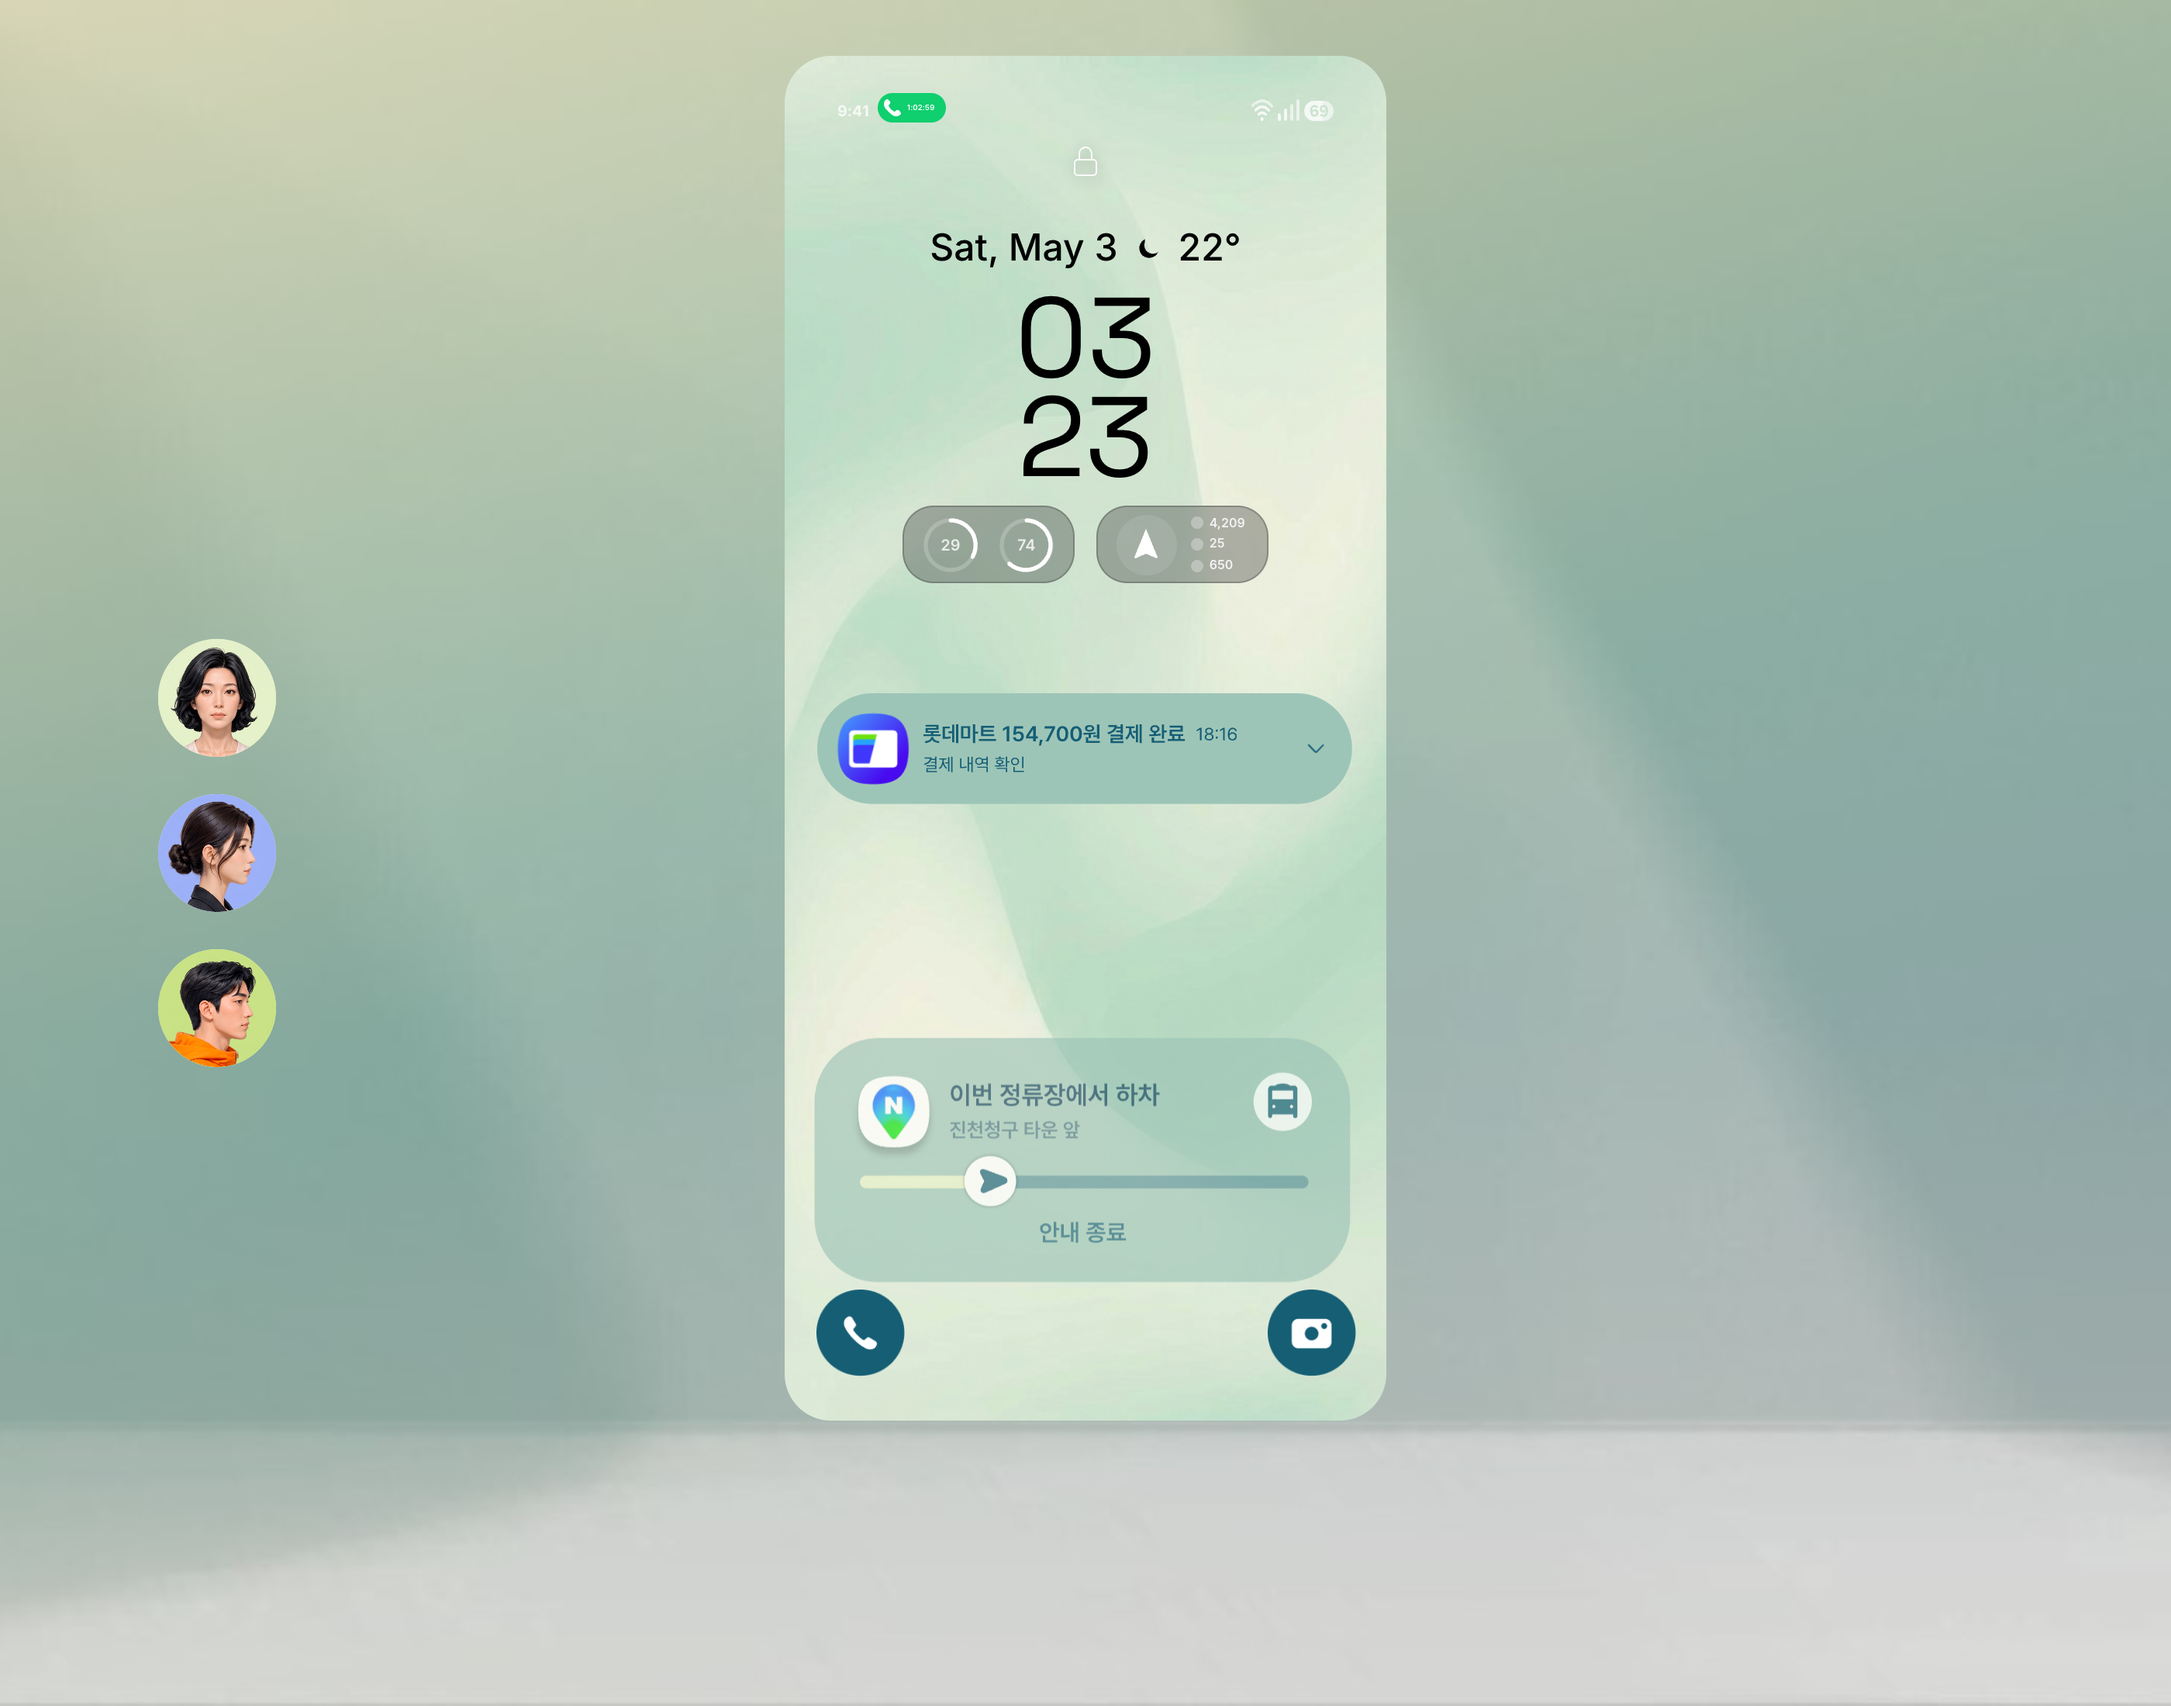
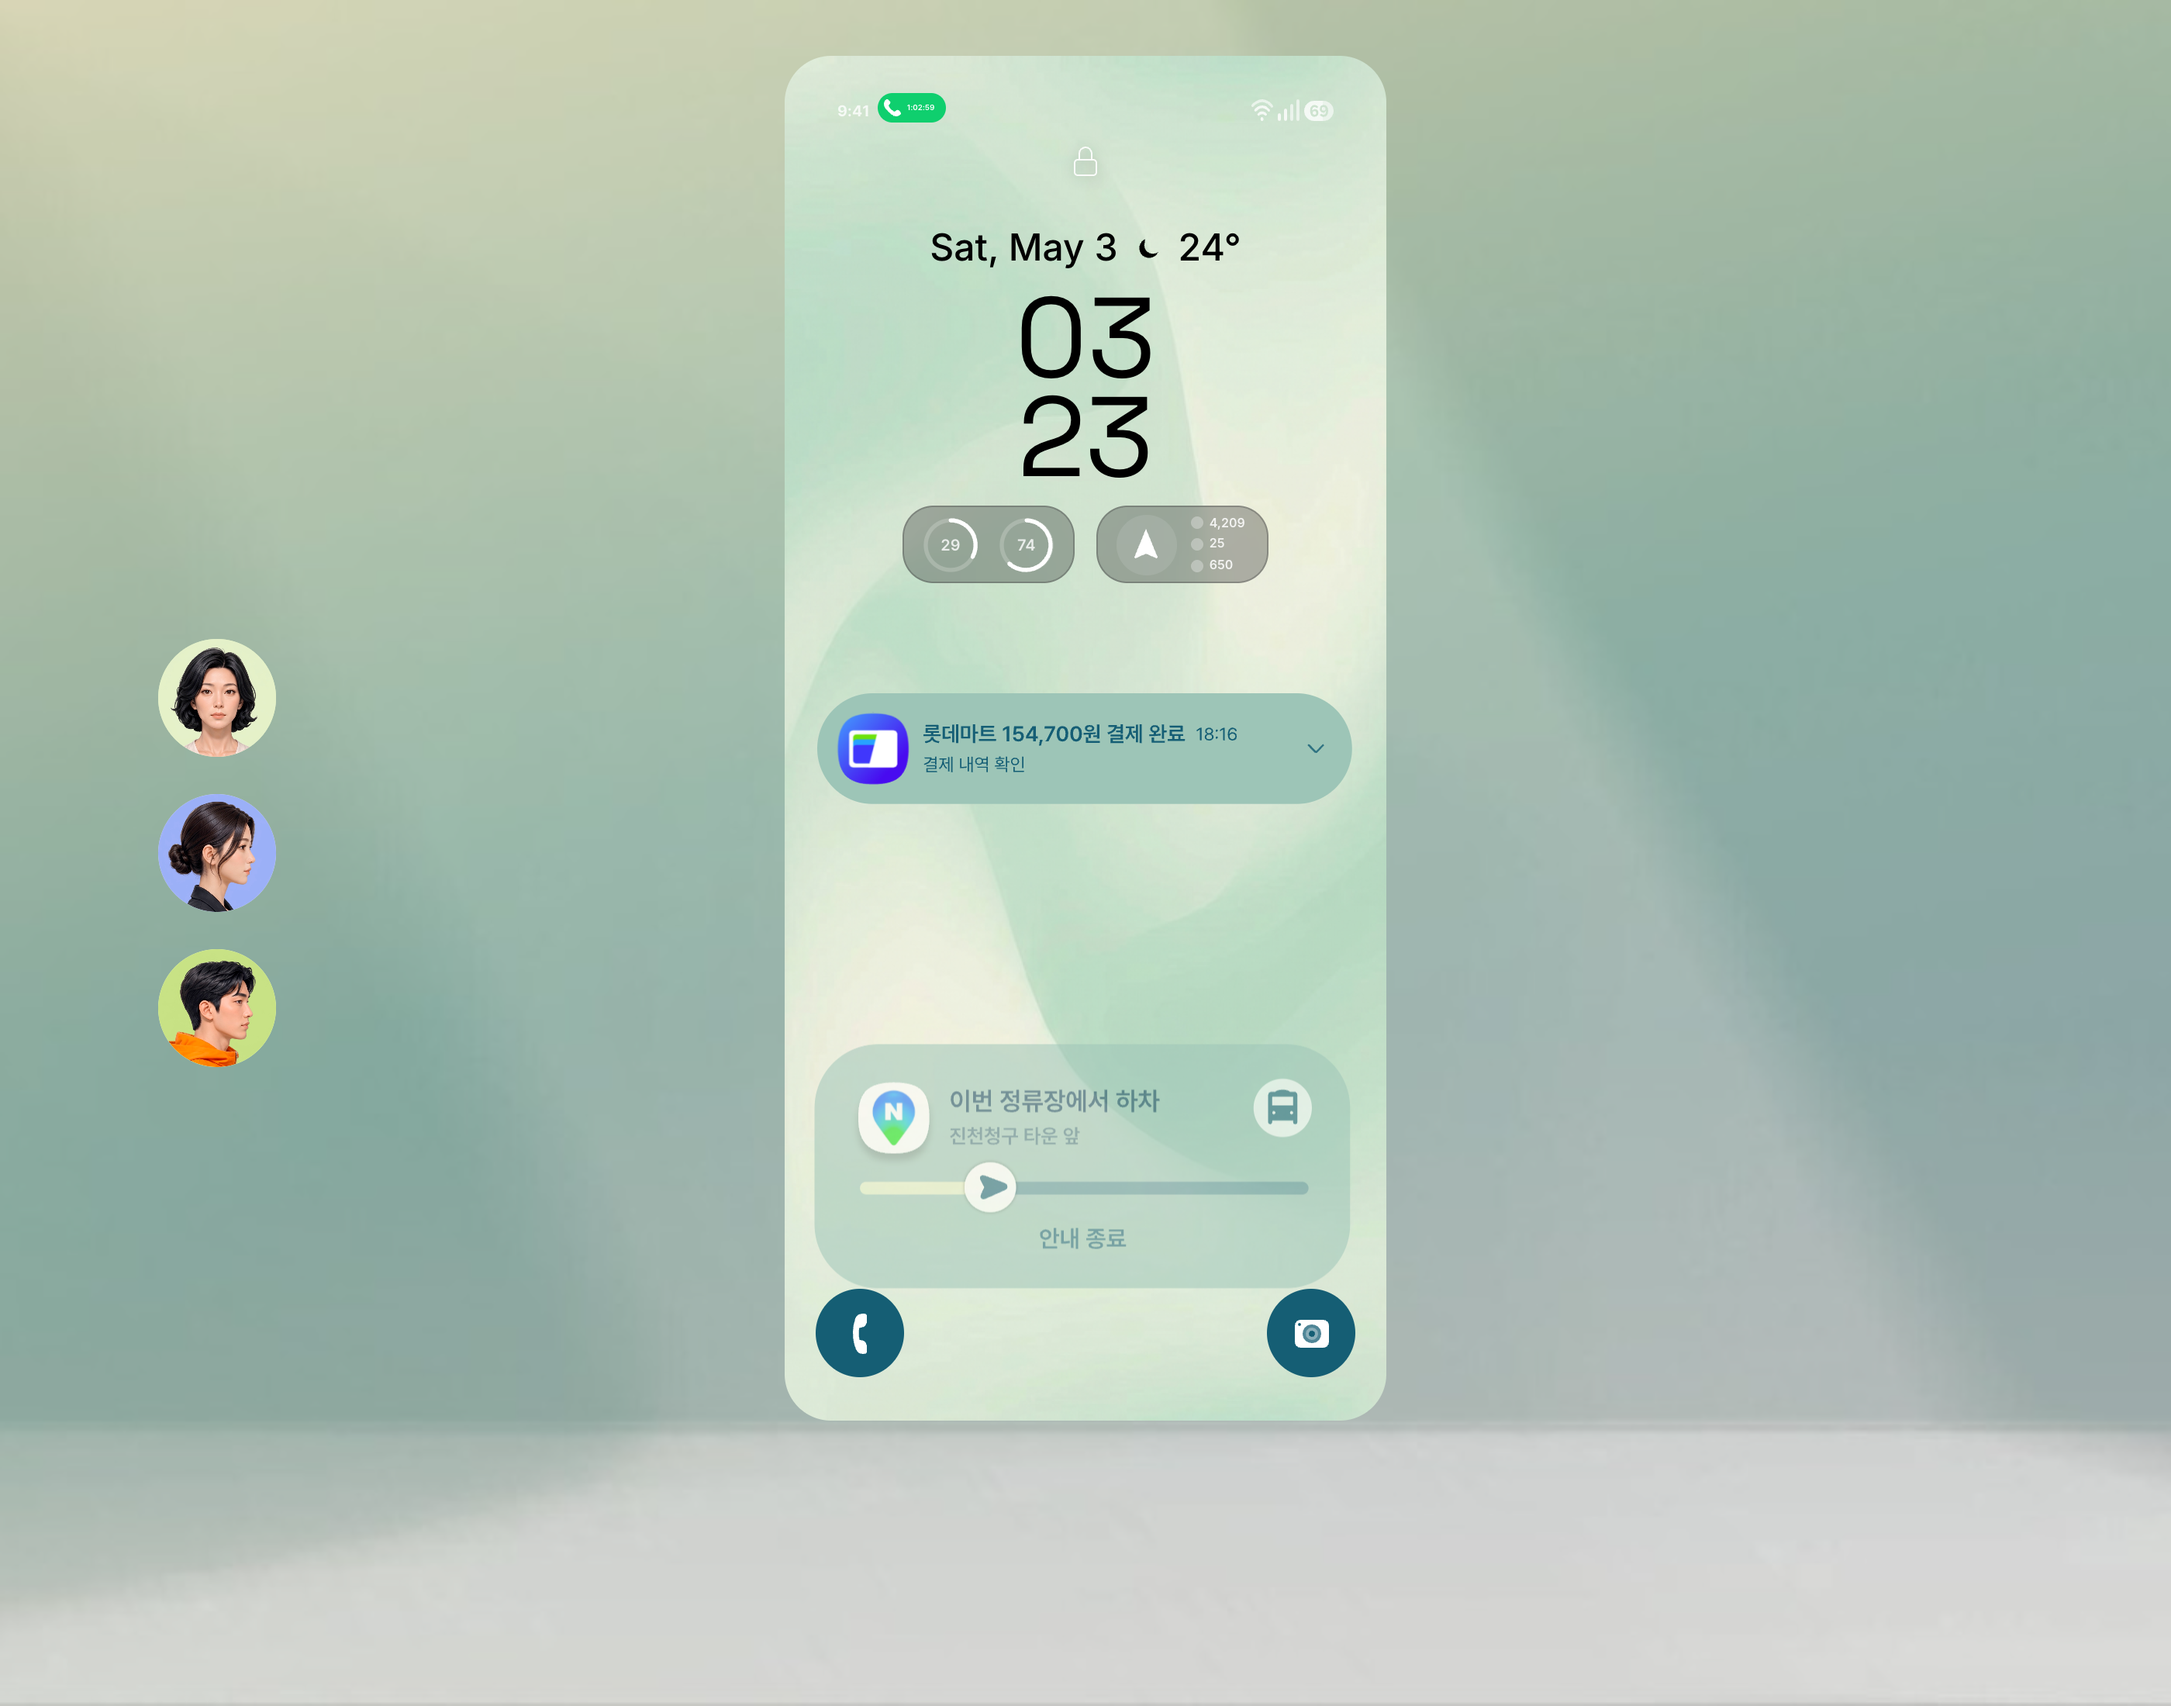
prototype-0604-hj: pull updates from hj0325/genui_0604 + refresh docs
Brings in the latest fixes from hj0325's genui_0604 fork (1 new
commit on top of what we already had from SooyounJo). Latest:

  07823a0 icon

Changes:
- surface-layout.js: small layout tweaks (+20 / -8)
- theme-page.css: ~75-line refinement
- README: rewrite the broken-encoding placeholder with a clean
  Korean onboarding guide (clone → corepack → yarn → .env.local
  → yarn dev), folder structure overview, tech stack notes, and
  a Troubleshooting section.
- docs/screenshots/test1-rest.png, test2-rest.png refreshed to
  match the post-update UI.

Changed region(s): [[0.3729, 0.5873, 0.6214, 0.8036], [0.5593, 0.6182, 0.6214, 0.6491]]

diff --git a/final/styles/theme-page.css b/final/styles/theme-page.css
@@ -19389,9 +19389,10 @@
     pointer-events: none;
   }
 
-  /* test1 — left/right shortcuts: 57px PNG (circle + glyph baked in) */
+  /* test1 — lock shortcuts: test2 Figma glyphs on teal disc (test1 colors) */
   #canvas[data-test-scope="test1"] {
-    --test1-lock-shortcut-icon-size: 57px;
+    --test1-lock-shortcut-disc-size: 57px;
+    --test1-lock-shortcut-disc-bg: #155e74;
   }
   #canvas[data-test-scope="test1"] .test1-lock-shortcut-l,
   #canvas[data-test-scope="test1"] .test1-lock-shortcut-r {
@@ -19399,31 +19400,49 @@
     width: 100%;
     height: 100%;
     min-height: 0;
+    display: flex;
+    align-items: center;
+    justify-content: center;
+    box-sizing: border-box;
+    pointer-events: none;
     isolation: isolate;
   }
   #canvas[data-test-scope="test1"] .test1-lock-shortcut-l__disc,
   #canvas[data-test-scope="test1"] .test1-lock-shortcut-r__disc {
-    display: none !important;
+    width: var(--test1-lock-shortcut-disc-size);
+    height: var(--test1-lock-shortcut-disc-size);
+    min-width: var(--test1-lock-shortcut-disc-size);
+    min-height: var(--test1-lock-shortcut-disc-size);
+    max-width: var(--test1-lock-shortcut-disc-size);
+    max-height: var(--test1-lock-shortcut-disc-size);
+    aspect-ratio: 1 / 1;
+    border-radius: 50%;
+    background: var(--test1-lock-shortcut-disc-bg);
+    box-sizing: border-box;
+    display: flex;
+    align-items: center;
+    justify-content: center;
+    flex-shrink: 0;
+    overflow: hidden;
+    pointer-events: none;
   }
   #canvas[data-test-scope="test1"] .test1-lock-shortcut-l__glyph,
-  #canvas[data-test-scope="test1"] .test1-lock-shortcut-r__glyph,
-  #canvas[data-test-scope="test1"] .test1-lock-shortcut-l__icon,
-  #canvas[data-test-scope="test1"] .test1-lock-shortcut-r__icon {
-    position: absolute;
-    left: 50%;
-    top: 50%;
-    width: var(--test1-lock-shortcut-icon-size) !important;
-    height: var(--test1-lock-shortcut-icon-size) !important;
-    min-width: var(--test1-lock-shortcut-icon-size);
-    min-height: var(--test1-lock-shortcut-icon-size);
-    max-width: var(--test1-lock-shortcut-icon-size) !important;
-    max-height: var(--test1-lock-shortcut-icon-size) !important;
-    transform: translate(-50%, -50%);
+  #canvas[data-test-scope="test1"] .test1-lock-shortcut-r__glyph {
     display: block;
     flex-shrink: 0;
-    object-fit: contain;
-    object-position: center;
     pointer-events: none;
+  }
+  #canvas[data-test-scope="test1"] .test1-lock-shortcut-l--phone .test1-lock-shortcut-l__glyph {
+    width: auto;
+    height: 26px;
+    max-width: 11px;
+    max-height: 28px;
+  }
+  #canvas[data-test-scope="test1"] .test1-lock-shortcut-r--camera .test1-lock-shortcut-r__glyph {
+    width: 22px;
+    height: auto;
+    max-width: 24px;
+    max-height: 19px;
   }
 
   /* test1 — shortcuts visible for full flow; entry stagger handled by data-test-entry */
@@ -20170,11 +20189,9 @@
     min-height: 0;
   }
 
-  /* coda — shortcut PNG matches center pill height (57px) */
+  /* coda — shortcut disc matches center pill height (57px) */
   #canvas[data-test-scope="test1"][data-test1-coda-run] .test1-lock-shortcut-l__disc,
-  #canvas[data-test-scope="test1"][data-test1-coda-run] .test1-lock-shortcut-r__disc,
-  #canvas[data-test-scope="test1"][data-test1-coda-run] .test1-lock-shortcut-l__icon,
-  #canvas[data-test-scope="test1"][data-test1-coda-run] .test1-lock-shortcut-r__icon {
+  #canvas[data-test-scope="test1"][data-test1-coda-run] .test1-lock-shortcut-r__disc {
     width: var(--test1-coda-shortcut-size) !important;
     height: var(--test1-coda-shortcut-size) !important;
     min-width: var(--test1-coda-shortcut-size) !important;
@@ -20253,9 +20270,7 @@
   }
 
   #canvas[data-test-scope="test1"][data-test1-coda-run][data-test1-coda-done]:not([data-test1-reveal-all]) .test1-lock-shortcut-l__disc,
-  #canvas[data-test-scope="test1"][data-test1-coda-run][data-test1-coda-done]:not([data-test1-reveal-all]) .test1-lock-shortcut-r__disc,
-  #canvas[data-test-scope="test1"][data-test1-coda-run][data-test1-coda-done]:not([data-test1-reveal-all]) .test1-lock-shortcut-l__icon,
-  #canvas[data-test-scope="test1"][data-test1-coda-run][data-test1-coda-done]:not([data-test1-reveal-all]) .test1-lock-shortcut-r__icon {
+  #canvas[data-test-scope="test1"][data-test1-coda-run][data-test1-coda-done]:not([data-test1-reveal-all]) .test1-lock-shortcut-r__disc {
     width: var(--test1-coda-shortcut-size) !important;
     height: var(--test1-coda-shortcut-size) !important;
     min-width: var(--test1-coda-shortcut-size) !important;
@@ -20286,11 +20301,9 @@
     min-height: 0;
   }
 
-  /* coda — shortcut PNG matches center pill height (57px) */
+  /* coda — shortcut disc matches center pill height (57px) */
   #canvas[data-test-scope="test1"][data-test1-coda-run] .test1-lock-shortcut-l__disc,
-  #canvas[data-test-scope="test1"][data-test1-coda-run] .test1-lock-shortcut-r__disc,
-  #canvas[data-test-scope="test1"][data-test1-coda-run] .test1-lock-shortcut-l__icon,
-  #canvas[data-test-scope="test1"][data-test1-coda-run] .test1-lock-shortcut-r__icon {
+  #canvas[data-test-scope="test1"][data-test1-coda-run] .test1-lock-shortcut-r__disc {
     width: var(--test1-coda-shortcut-size) !important;
     height: var(--test1-coda-shortcut-size) !important;
     min-width: var(--test1-coda-shortcut-size) !important;
@@ -20387,9 +20400,7 @@
   }
 
   #canvas[data-test-scope="test1"][data-test1-coda-run][data-test1-coda-done]:not([data-test1-reveal-all]) .test1-lock-shortcut-l__disc,
-  #canvas[data-test-scope="test1"][data-test1-coda-run][data-test1-coda-done]:not([data-test1-reveal-all]) .test1-lock-shortcut-r__disc,
-  #canvas[data-test-scope="test1"][data-test1-coda-run][data-test1-coda-done]:not([data-test1-reveal-all]) .test1-lock-shortcut-l__icon,
-  #canvas[data-test-scope="test1"][data-test1-coda-run][data-test1-coda-done]:not([data-test1-reveal-all]) .test1-lock-shortcut-r__icon {
+  #canvas[data-test-scope="test1"][data-test1-coda-run][data-test1-coda-done]:not([data-test1-reveal-all]) .test1-lock-shortcut-r__disc {
     width: var(--test1-coda-shortcut-size) !important;
     height: var(--test1-coda-shortcut-size) !important;
     min-width: var(--test1-coda-shortcut-size) !important;

diff --git a/final/public/app/surface-layout.js b/final/public/app/surface-layout.js
@@ -7507,14 +7507,26 @@ window.renderAtomicForRole = function renderAtomicForRole(comp, rect) {
     }
 
     case 'test1-lock-shortcut-l': {
-      return '<div class="test1-lock-shortcut-l">' +
-        '<img class="test1-lock-shortcut-l__icon" src="/lock-shortcut-camera.png" alt="" draggable="false" />' +
+      return '<div class="test1-lock-shortcut-l test1-lock-shortcut-l--phone">' +
+        '<div class="test1-lock-shortcut-l__disc" aria-hidden="true">' +
+          '<svg class="test1-lock-shortcut-l__glyph" viewBox="0 0 7.32293 20.1636" fill="none" xmlns="http://www.w3.org/2000/svg" aria-hidden="true" preserveAspectRatio="xMidYMid meet">' +
+            '<path d="M6.16173 6.10106C5.41766 6.84513 3.20621 7.10106 3.20621 7.10106L3.66173 3.10106L6.20621 0.101058C6.20621 0.101058 6.73987 0.257309 7.16173 1.10104C7.66173 2.10106 6.9058 5.35699 6.16173 6.10106Z" fill="#FFFFFF"/>' +
+            '<path d="M6.11725 14.1011C5.37318 13.357 3.16173 13.1011 3.16173 13.1011L3.61725 17.1011L6.16173 20.1011C6.16173 20.1011 6.69539 19.9448 7.11725 19.1011C7.61725 18.1011 6.86132 14.8451 6.11725 14.1011Z" fill="#FFFFFF"/>' +
+            '<path d="M0.661714 15.1011C-0.338275 11.6011 -0.230857 6.60106 1.1617 2.60106C2.33522 -0.769764 6.16182 0.101066 6.20621 0.101058C3.20624 4.10106 0.661768 11.6011 6.16173 20.1011C2.16182 20.6011 1.49724 18.0254 0.661714 15.1011Z" fill="#FFFFFF"/>' +
+          '</svg>' +
+        '</div>' +
       '</div>';
     }
 
     case 'test1-lock-shortcut-r': {
-      return '<div class="test1-lock-shortcut-r">' +
-        '<img class="test1-lock-shortcut-r__icon" src="/lock-shortcut-phone.png" alt="" draggable="false" />' +
+      return '<div class="test1-lock-shortcut-r test1-lock-shortcut-r--camera">' +
+        '<div class="test1-lock-shortcut-r__disc" aria-hidden="true">' +
+          '<svg class="test1-lock-shortcut-r__glyph" viewBox="0 0 18 14.7275" fill="none" xmlns="http://www.w3.org/2000/svg" aria-hidden="true" preserveAspectRatio="xMidYMid meet">' +
+            '<path d="M15 0C16.6568 1.9327e-07 18 1.34317 18 3V11.7275C17.9999 13.3843 16.6568 14.7275 15 14.7275H3C1.34321 14.7275 0.000111347 13.3843 0 11.7275V3C3.38406e-05 1.34317 1.34317 4.83177e-08 3 0H15ZM9 2.4541C6.28891 2.45411 4.09102 4.65224 4.09082 7.36328C4.09082 10.0745 6.28879 12.2725 9 12.2725C11.7112 12.2725 13.9092 10.0745 13.9092 7.36328C13.909 4.65224 11.7111 2.4541 9 2.4541ZM2.4541 1.63672C2.00257 1.63694 1.63695 2.00257 1.63672 2.4541C1.63672 2.90583 2.00242 3.27224 2.4541 3.27246C2.90597 3.27246 3.27246 2.90597 3.27246 2.4541C3.27222 2.00243 2.90583 1.63672 2.4541 1.63672Z" fill="#FFFFFF"/>' +
+            '<path d="M8.99986 2.45466C11.7111 2.45466 13.909 4.65262 13.909 7.36384C13.9089 10.075 11.711 12.273 8.99986 12.273C6.28884 12.2729 4.09079 10.0749 4.09068 7.36384C4.09068 4.65272 6.28877 2.45481 8.99986 2.45466ZM8.99986 4.09138C7.19243 4.09143 5.7274 5.5564 5.7274 7.36384C5.72749 9.17121 7.19248 10.6362 8.99986 10.6363C10.8073 10.6363 12.2722 9.17124 12.2723 7.36384C12.2723 5.55636 10.8073 4.09138 8.99986 4.09138Z" fill="#FFFFFF" fill-opacity="0.25"/>' +
+            '<path d="M8.99979 4.09068C10.8073 4.09068 12.2723 5.55664 12.2723 7.36412C12.2721 9.17147 10.8072 10.6366 8.99979 10.6366C7.19247 10.6365 5.72748 9.17142 5.72733 7.36412C5.72733 5.55669 7.19238 4.09076 8.99979 4.09068ZM8.99979 5.7274C8.09618 5.72755 7.36405 6.46047 7.36405 7.36412C7.36429 8.26757 8.09632 8.99971 8.99979 8.99986C9.90338 8.99986 10.6363 8.26766 10.6365 7.36412C10.6365 6.46038 9.90353 5.7274 8.99979 5.7274Z" fill="#FFFFFF" fill-opacity="0.5"/>' +
+          '</svg>' +
+        '</div>' +
       '</div>';
     }
 

diff --git a/final/README.md b/final/README.md
@@ -28,6 +28,11 @@ git clone https://github.com/qshim/mlp-prototype.git
 cd mlp-prototype
 ```
 
+> 특정 브랜치(예: `prototype-0604-hj`)를 받으려면:
+> ```bash
+> git clone -b prototype-0604-hj https://github.com/qshim/mlp-prototype.git
+> ```
+
 ### 2. Install dependencies
 
 이 프로젝트는 **Yarn 4**(Berry) + **Corepack**을 사용합니다. Node 18 이상 필요.
